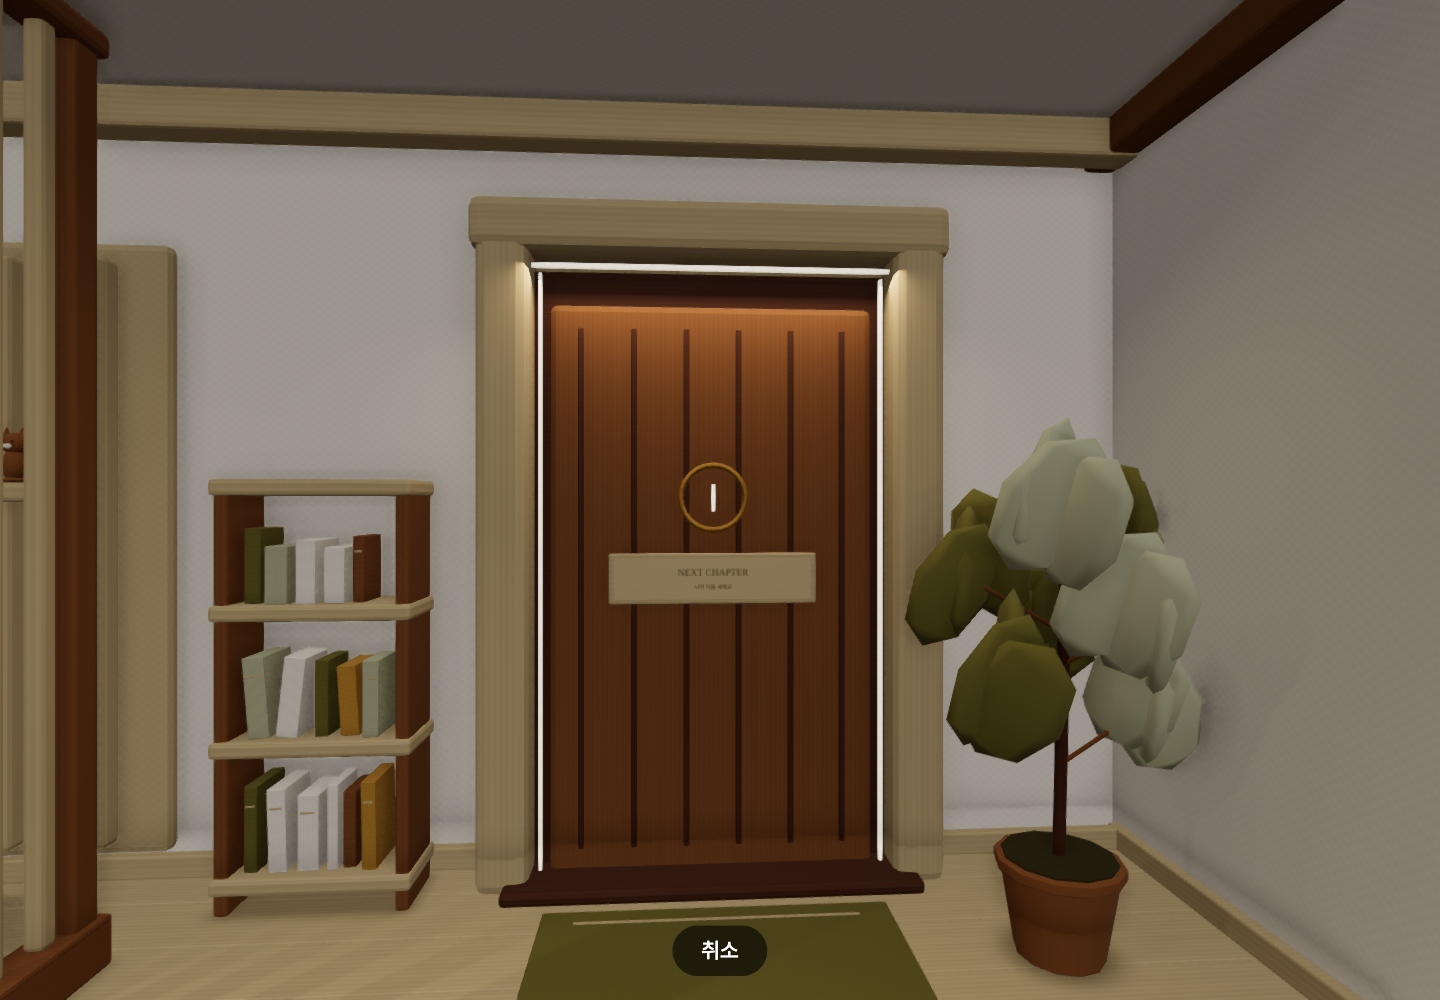
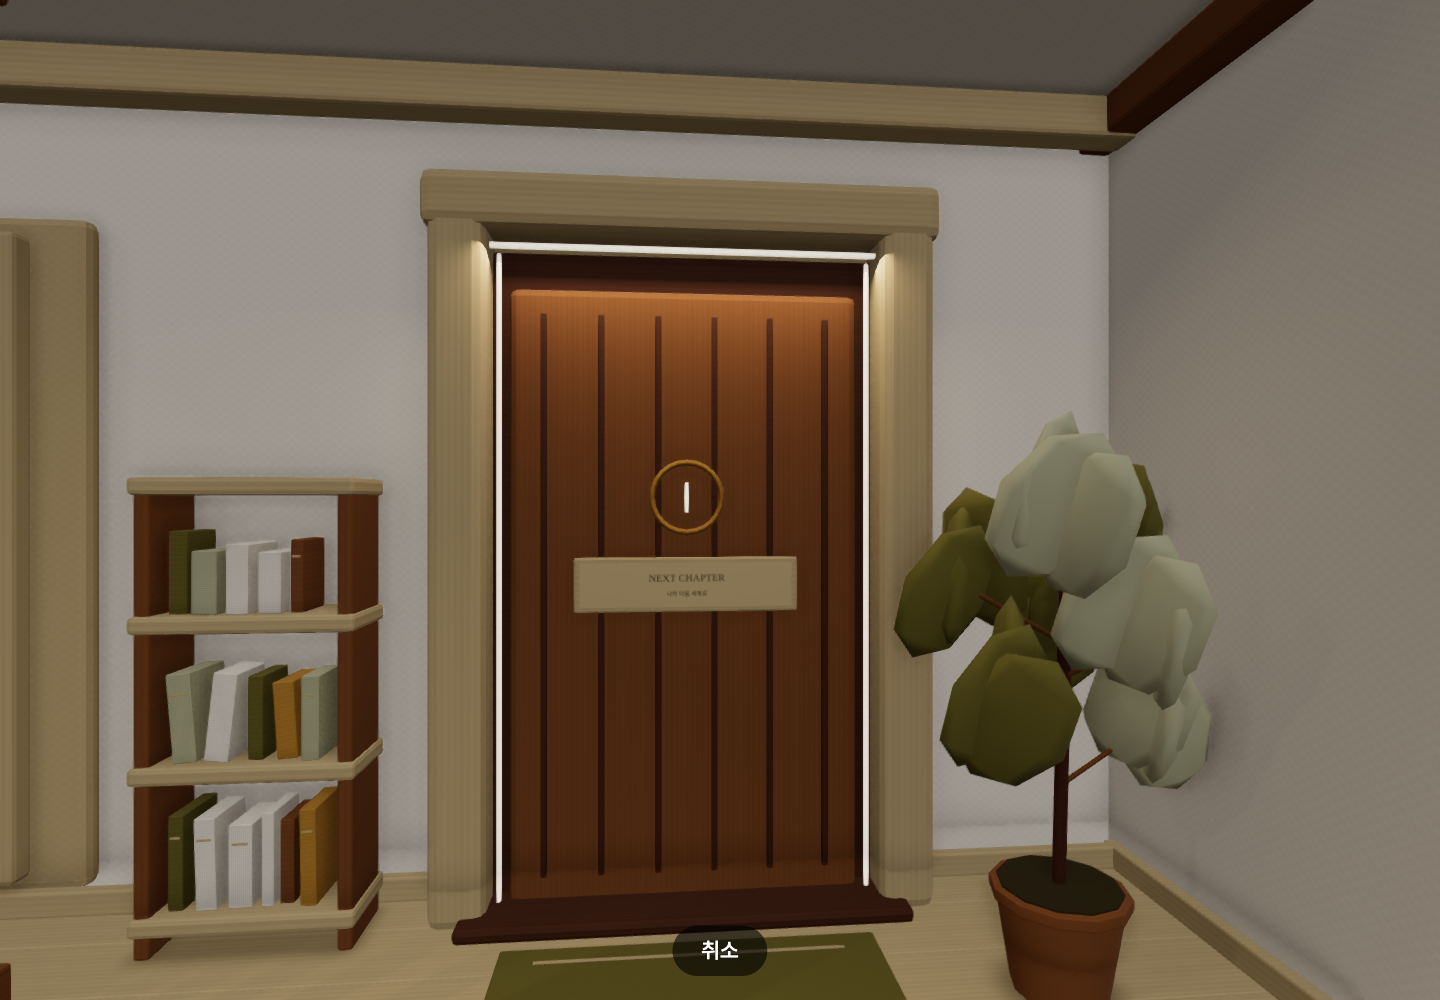
Record verified doorway Pages deployment [skip ci]

diff --git a/docs/progress.md b/docs/progress.md
@@ -8,7 +8,7 @@
 
 검사: 최종 `npm run check` 통과(린트·타입·Node 29개 파일/152개·원본 GLB/자산 검사·프론트/서버 빌드·프로덕션 진단 분리). 실제 Chromium/Apple M4의 첫 회귀 15개 중14개가 통과했고, 나머지1개는 콘텐츠 root 생성 직후 전환이 끝나기 전에 M을 누르던 검사 타이밍을 화면 전환 완료 기준으로 수정해 재검사했습니다. 방문 이동/문 열림/문 앞 복귀·취소·기존 단차·레거시 PC/터치/충돌·프로덕션4개를 포함한 재검사11개가 모두 통과했습니다. 최종 보완 후 방문 전환·취소/브라우저 뒤로 가기·모션 감소2개도 재검사해 통과했습니다. [최종 방문 검사](screenshots/door-journey-20261111/final-door-summary.json). 기존 소셜4개도 통과해 자기 아바타 숨김·두 사용자 이동/좌석/채팅·실패 복구/재접속·WebRTC 거리 감쇠/음소거를 확인했습니다. [실제 문 열림](screenshots/door-journey-20261111/door-opening.png) · [문 앞 복귀 시점](screenshots/door-journey-20261111/door-return-looking-in.png) · [첫 회귀 기록](screenshots/door-journey-20261111/initial-e2e-summary.json) · [재검사](screenshots/door-journey-20261111/retest-summary.json) · [소셜 검사](screenshots/door-journey-20261111/social-summary.json).
 
-실행: 사용자의 재실행 요청에 따라 로컬 Vite를 http://127.0.0.1:5173/ 에서 다시 시작했고, 3001 실시간 서버도 현재 빌드로 갱신했습니다. 이 단락은 아래 이전 단계의 ‘콘텐츠 후에도 의자로 복귀’ 정책을 대체합니다. 문짝 회전 반경을 벗어나는 대기점과 완전히 열린 뒤 통과하는 모션을 보완한 후 `npm run check`와 실제 브라우저9개를 다시 실행해 모두 통과했습니다. [최종 여유 거리/전환 검사](screenshots/door-journey-20261111/clearance-final-summary.json). 실제 VR 기기·휴대폰 센서/멀미는 미검증입니다. 다음 단계는 같은 변경의 Pages 게시와 공개 사이트 확인입니다. 기존 번들 크기 경고와 공개 Socket.IO 서버 미설정 제한은 유지됩니다.
+실행: 사용자의 재실행 요청에 따라 로컬 Vite를 http://127.0.0.1:5173/ 에서 다시 시작했고, 3001 실시간 서버도 현재 빌드로 갱신했습니다. 이 단락은 아래 이전 단계의 ‘콘텐츠 후에도 의자로 복귀’ 정책을 대체합니다. 문짝 회전 반경을 벗어나는 대기점과 완전히 열린 뒤 통과하는 모션을 보완한 후 `npm run check`와 실제 브라우저9개를 다시 실행해 모두 통과했습니다. [최종 여유 거리/전환 검사](screenshots/door-journey-20261111/clearance-final-summary.json). 실제 VR 기기·휴대폰 센서/멀미는 미검증입니다. 코드 커밋 `afa082523a1806dded832e18d53877a5f8757ac4`를 반영한 [Pages 실행 43029500666](https://github.com/mango040730/XR/actions/runs/43029500666)의 Linux check·빌드·게시가 모두 success로 완료됐습니다. 현재 로컬5173과 실제 공개 사이트에서 세 모드 입장·키보드 이동·포인터 잠금 없음·콘텐츠 순간 평가·문 앞 복귀를 확인했습니다. 공개 번들에도 문 열기 여유 거리 보완이 포함됐고, 안내 문구/빈 패널은 표시되지 않습니다. 페이지/네트워크 오류0개, GLB 응답200, 프로덕션 진단 전역 없음입니다. [로컬 검사](screenshots/door-journey-20261111/local-verification.json) · [공개 첫 홈](screenshots/door-journey-20261111/live-initial-home.png) · [공개 문 앞 복귀](screenshots/door-journey-20261111/live-return-looking-in.png) · [공개 검사](screenshots/door-journey-20261111/live-verification.json) · [배포 기록](screenshots/door-journey-20261111/github-deployment.json). 다음 단계는 실제 VR 기기에서 전환·방향·안정성을 확인하는 것입니다. 기존 번들 크기 경고와 공개 Socket.IO 서버 미설정 제한은 유지됩니다.
 
 ---
 
